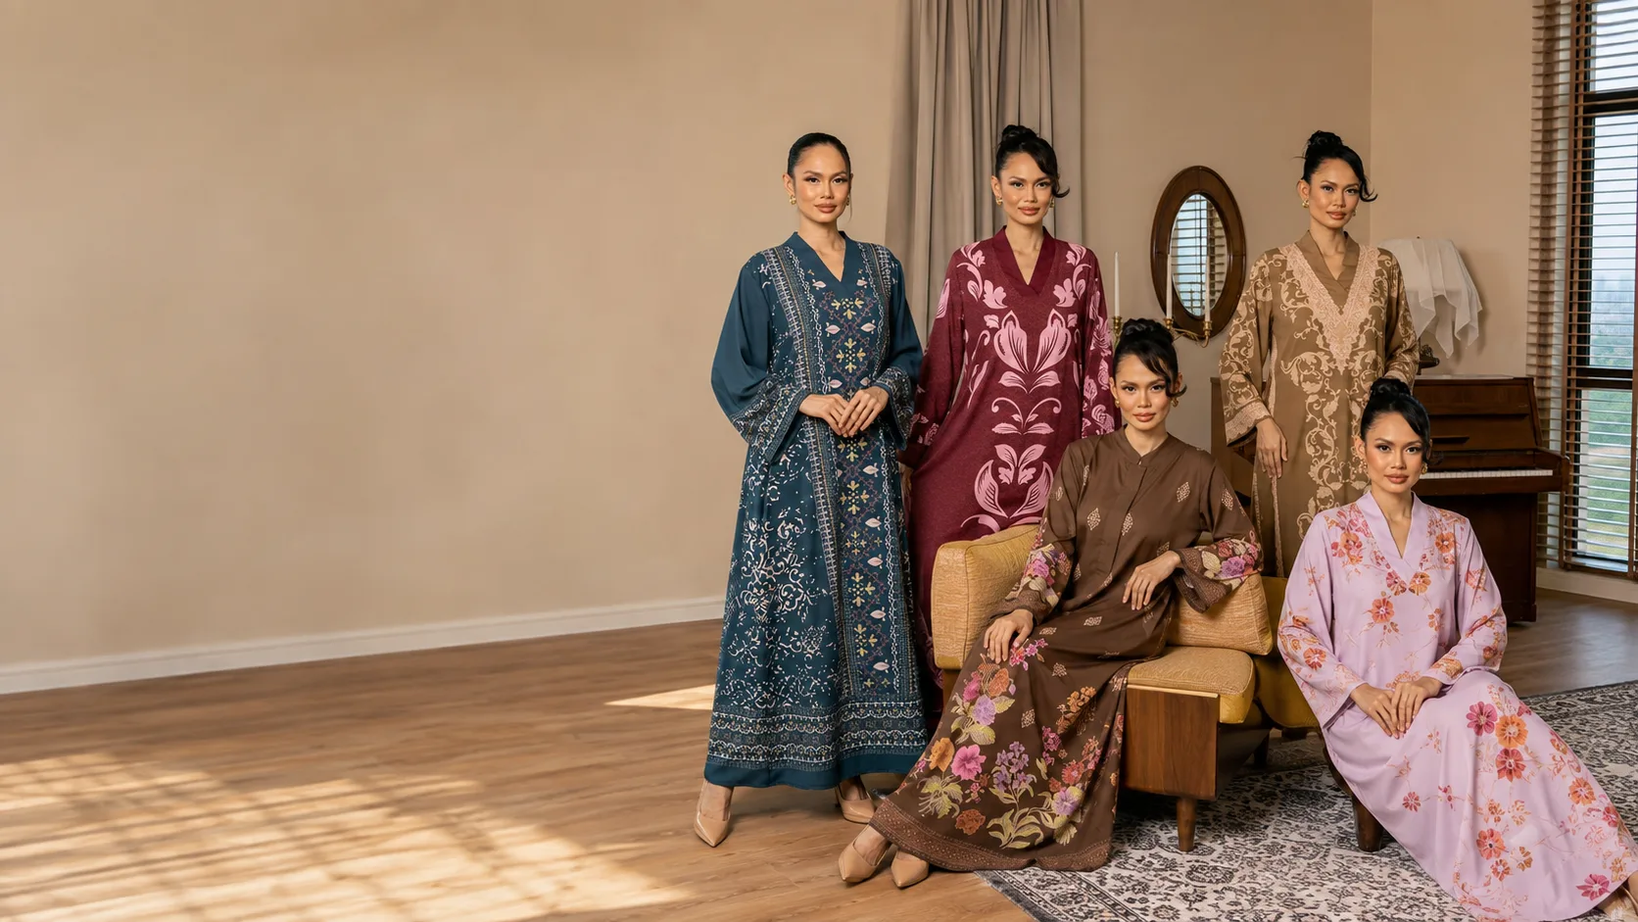
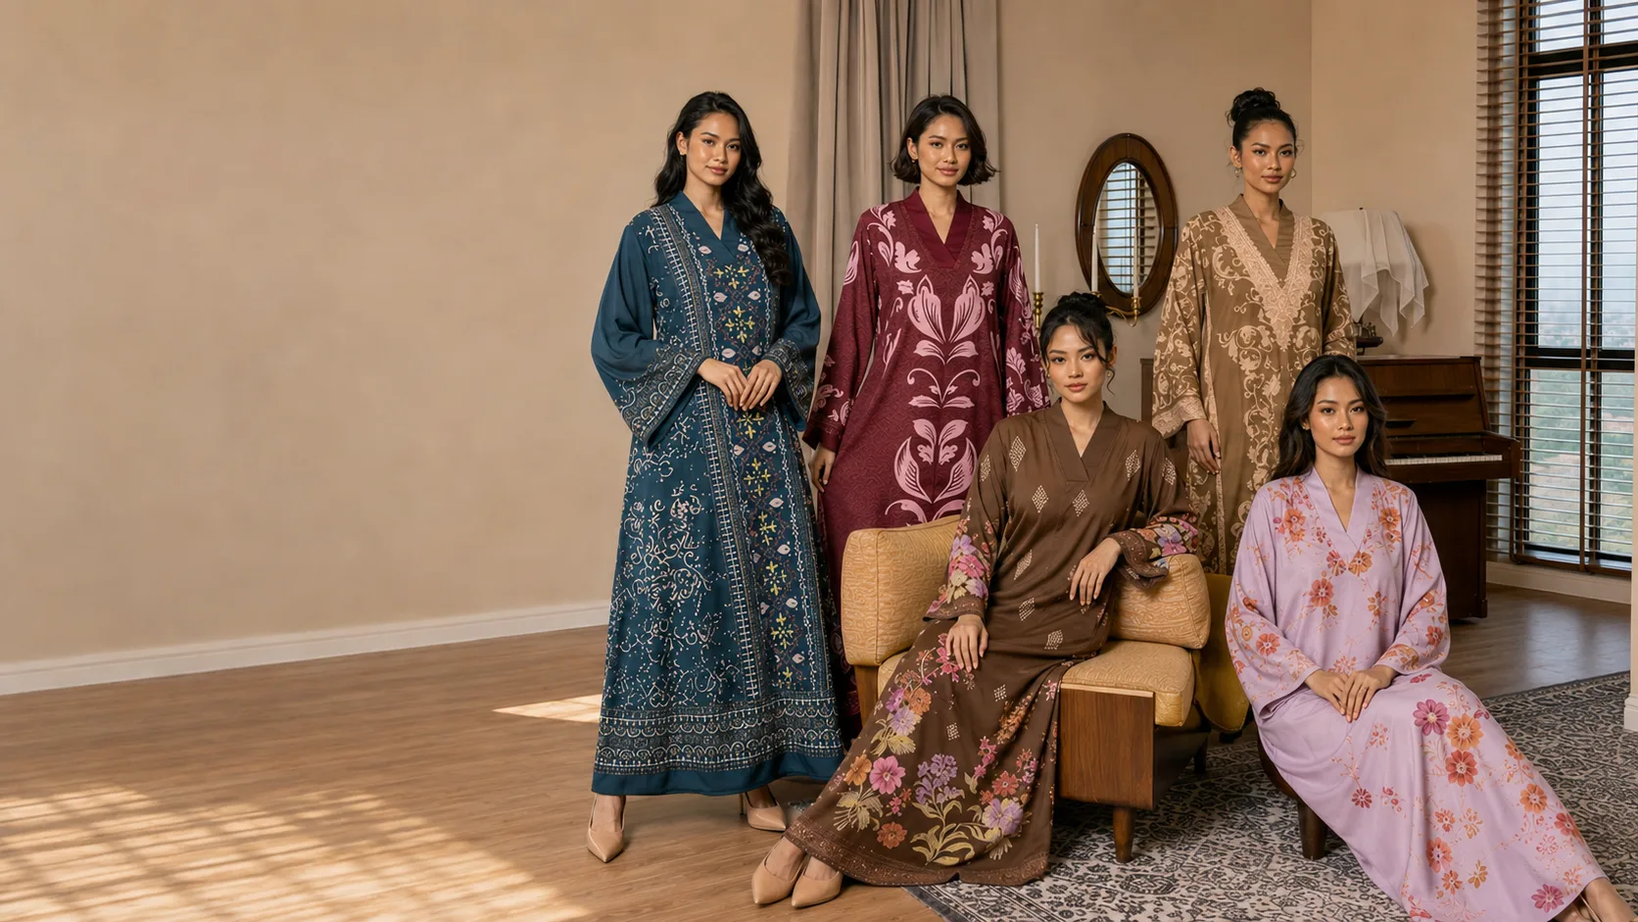
Cotton silk copy pass, new hero masters, store block
New v2 hero photography for desktop and mobile. Copy updated across the
page: premium cotton silk emphasised, A-line becomes A-Cut everywhere,
petite-to-plus messaging in hero and claims bar, pear-shape point in The
Cloth, fifteen-colour claim (seven verifiable in assets, flagged in
HANDOVER), Teal Green and Soft Peach renames, Umrah friendly occasion,
24-hour dispatch and 1-3 day delivery across FAQ, product sheet,
checkout and confirmation. New visit-the-store block with The Linc
address, 10am-9pm hours, phone, and a Google Maps link.

diff --git a/landing/index.html b/landing/index.html
@@ -4,13 +4,13 @@
 <meta charset="utf-8">
 <meta name="viewport" content="width=device-width, initial-scale=1, viewport-fit=cover">
 <title>Batik Dolu-Dolu — HOOR</title>
-<meta name="description" content="Batik Dolu-Dolu by HOOR. Six prints from the old days, cut A-line with pockets, in sizes S/M to 4XL. RM199, delivered across Malaysia.">
+<meta name="description" content="Batik Dolu-Dolu by HOOR. Heritage batik in premium cotton silk, A-Cut with pockets, for every woman from petite to plus size. RM199, at your doorstep in 1–3 days.">
 <meta name="theme-color" content="#FAF6F1">
 <link rel="icon" href="assets/brand/hoor-logo-sage.svg" type="image/svg+xml">
 
 <meta property="og:type" content="website">
 <meta property="og:title" content="Batik Dolu-Dolu — HOOR">
-<meta property="og:description" content="One dress, every occasion. Six prints, sizes S/M–4XL, pockets included. RM199.">
+<meta property="og:description" content="One dress, every occasion. Premium cotton silk, petite to plus size, pockets included. RM199.">
 <meta property="og:image" content="assets/img/hero_desktop-1400.webp">
 
 <!-- Fonts are self-hosted: no third-party DNS, TLS or blocking round-trip on
@@ -22,8 +22,8 @@
 <link rel="stylesheet" href="css/hoor.css">
 
 <link rel="preload" as="image" media="(max-width: 899px)" fetchpriority="high"
-      href="assets/img/hero_mobile-853.webp"
-      imagesrcset="assets/img/hero_mobile-480.webp 480w, assets/img/hero_mobile-853.webp 853w" imagesizes="100vw">
+      href="assets/img/hero_mobile-930.webp"
+      imagesrcset="assets/img/hero_mobile-480.webp 480w, assets/img/hero_mobile-930.webp 930w" imagesizes="100vw">
 <link rel="preload" as="image" media="(min-width: 900px)" fetchpriority="high"
       href="assets/img/hero_desktop-1400.webp"
       imagesrcset="assets/img/hero_desktop-900.webp 900w, assets/img/hero_desktop-1400.webp 1400w, assets/img/hero_desktop-1672.webp 1672w" imagesizes="100vw">
@@ -69,7 +69,7 @@
[1 lines of base64/hex data omitted]
         <picture>
           <source media="(max-width: 899px)" sizes="100vw"
-                  srcset="assets/img/hero_mobile-480.webp 480w, assets/img/hero_mobile-853.webp 853w">
+                  srcset="assets/img/hero_mobile-480.webp 480w, assets/img/hero_mobile-930.webp 930w">
           <img class="loaded" src="assets/img/hero_desktop-1400.webp" sizes="100vw"
                srcset="assets/img/hero_desktop-900.webp 900w, assets/img/hero_desktop-1400.webp 1400w, assets/img/hero_desktop-1672.webp 1672w"
                alt="The Batik Dolu-Dolu collection: five prints worn together in a Kuala Lumpur apartment"
@@ -89,8 +89,8 @@
 
       <div class="hero__deck">
         <p class="hero__lead">
-          The prints your mother kept for good. Cut A-line, given pockets,
-          in sizes that go to 4XL.
+          Made from premium cotton silk, in an A-Cut with pockets.
+          For every woman, from petite to plus size.
         </p>
         <div class="hero__cta">
           <a class="btn btn--light" href="#shop" data-track="hero_cta">Shop the collection</a>
@@ -114,10 +114,9 @@
           exactly, more like recognition.
         </p>
         <p>
-          These six prints come from that shelf: the tile medallions, the
-          scrolling lace borders, the painted blooms that turned up on every
-          good baju in the house. We had them redrawn rather than reprinted,
-          then placed them on a cut built for a working week.
+          These prints come from that shelf. The tiles, the lace, the flowers
+          you grew up seeing on every good baju, redrawn with care and put on
+          a dress you can wear any day of the week.
         </p>
         <p>
           Shot in a flat that still has the upright piano, the corduroy
@@ -139,7 +138,7 @@
   <section class="shop wrap" id="shop">
     <div class="sect-head rv">
       <span class="label">The collection</span>
-      <h2>Six prints. Seven ways to wear them.</h2>
+      <h2>Fifteen colours. One A-Cut.</h2>
       <p class="sub">
         Pick a colour on the card to see it change. Everything is
         <span data-price-plain></span>, in every size we make.
@@ -185,16 +184,16 @@
 
           <div class="fabric__points rv rv-d1">
             <div>
-              <h3>Lightweight &amp; flowy</h3>
-              <p>It hangs from the shoulder and moves away from the body. No cling, no static, no clammy afternoon.</p>
+              <h3>Cotton silk, all day</h3>
+              <p>Lightweight, breathable and soft on the skin. It keeps you cool and comfortable from morning to night.</p>
             </div>
             <div>
-              <h3>All-day comfy</h3>
-              <p>Nothing fastens, nothing digs. Sit through a long lunch and stand up without needing a mirror.</p>
+              <h3>Flatters every figure</h3>
+              <p>The A-Cut falls from the shoulder, beautiful on petite, plus-size and pear-shaped bodies alike.</p>
             </div>
             <div>
               <h3>Pockets, properly</h3>
-              <p>Side seam pockets set into the A-line, deep enough for a phone and invisible when empty.</p>
+              <p>Side seam pockets set into the A-Cut, deep enough for a phone and invisible when empty.</p>
             </div>
           </div>
         </div>
@@ -210,8 +209,8 @@
       <span class="label">Size &amp; fit</span>
       <h2>Find your size in ten seconds.</h2>
       <p class="sub">
-        One measurement is enough. The cut is loose and A-line, so it hangs
-        from the shoulder. Your waist and hip do not decide the size.
+        One measurement is enough. The A-Cut is loose and hangs from the
+        shoulder. Your waist and hip do not decide the size.
       </p>
     </div>
 
@@ -257,6 +256,23 @@
         <h2>The things people ask us.</h2>
       </div>
       <div class="faq__list rv rv-d1" data-faq></div>
+
+      <div class="visit rv">
+        <div class="visit__info">
+          <span class="label">Visit the store</span>
+          <h3 class="serif">The Linc, Kuala Lumpur</h3>
+          <p>Lot 2-5, Second Floor, The Linc<br>360, Jalan Tun Razak, 50400 Kuala Lumpur</p>
+          <p class="visit__meta">Every day, 10am – 9pm<br><a href="tel:+60172500323">+60 17-250 0323</a></p>
+          <a class="btn" target="_blank" rel="noopener"
+             href="https://maps.google.com/?q=The+Linc+KL,+360+Jalan+Tun+Razak,+50400+Kuala+Lumpur">Open in Google Maps</a>
+        </div>
+        <div class="visit__card" aria-hidden="true">
+          <svg viewBox="0 0 16 22"><path fill="currentColor" d="M8 0C3.6 0 0 3.6 0 8c0 5.4 8 14 8 14s8-8.6 8-14c0-4.4-3.6-8-8-8zm0 11a3 3 0 1 1 0-6 3 3 0 0 1 0 6z"/></svg>
+          <span class="visit__floor">Second Floor</span>
+          <span class="visit__lot">Lot 2-5</span>
+          <span class="visit__mall">The Linc &middot; Jalan Tun Razak</span>
+        </div>
+      </div>
     </div>
   </section>
 
@@ -277,7 +293,7 @@
       <div class="rv">
         <span class="label">Still deciding?</span>
         <h2 class="serif">Take the one you keep scrolling back to.</h2>
-        <p>Six prints, sizes S/M to 4XL, <span data-price-plain-2></span> each. Free delivery over <span data-free-over></span>.</p>
+        <p>Fifteen colours, sizes S/M to 4XL, <span data-price-plain-2></span> each. Free delivery over <span data-free-over></span>.</p>
       </div>
       <div class="closer__cta rv rv-d1">
         <a class="btn btn--solid" href="#shop" data-track="closer_cta">Back to the collection</a>
@@ -318,7 +334,9 @@
         <h3 class="foot-h">Customer care</h3>
         <ul>
           <li><a data-support-email></a></li>
+          <li><a href="tel:+60172500323">+60 17-250 0323</a></li>
           <li data-support-hours></li>
+          <li>The Linc KL, Jalan Tun Razak</li>
           <li><a href="https://instagram.com/we.are.hoor" target="_blank" rel="noopener" data-support-ig></a></li>
         </ul>
         <h3 class="foot-h" style="margin-top:1.5rem">We accept</h3>

diff --git a/landing/js/data.js b/landing/js/data.js
@@ -34,7 +34,8 @@ export const CONFIG = {
 
   support: {
     email: 'hooriemodestwear@gmail.com',     // from hoor.my return policy
-    hours: 'Every day, 10am – 8pm',          // from hoor.my return policy
+    hours: 'Every day, 10am – 9pm',
+    phone: '+60 17-250 0323',                // hoor.my storefront config
     instagram: '@we.are.hoor',
     // HOOR's WhatsApp business number, taken from hoor.my's own storefront
     // configuration (whatsapp_phone). Digits only; empty hides the button.
@@ -43,8 +44,8 @@ export const CONFIG = {
 
   policy: {
     returnDays: 7,                           // hoor.my: within 7 days of receiving
-    refundDays: 14,                          // hoor.my: max 14 working days
-    dispatchDays: 10                         // hoor.my: max 10 working days
+    refundDays: 14                           // hoor.my: max 14 working days
+    // Dispatch/delivery promise per client: out in 24 hours, arrives 1–3 days.
   },
 
   // Turn on ONLY when the numbers below are real live stock.
@@ -102,13 +103,13 @@ export const LENGTH_GUIDE = [
    --------------------------------------------------------------------------- */
 
 const FABRIC =
-  'Premium crepe: matte, opaque and fluid. It falls straight from the shoulder ' +
-  'instead of clinging, and it does not crease across a long day.';   // ⚑ confirm exact fabric
+  'Premium cotton silk: soft, breathable and fluid. It falls straight from the shoulder ' +
+  'instead of clinging, and stays cool across a long Malaysian day.';
 
 const CARE = 'Hand wash cold or machine wash gentle, inside out. Hang dry in shade. Warm iron on reverse.'; // ⚑ confirm
 
 const SHARED_DETAILS = [
-  'A-cut silhouette that skims, never clings',
+  'A-Cut silhouette that skims, never clings',
   'Notched V-neckline with a soft stand collar',
   'Wide turned-back cuffs',
   'Side seam pockets, deep enough for a phone',
@@ -124,7 +125,7 @@ export const PRODUCTS = [
     colourways: [
       {
         id: 'deep-teal',
-        name: 'Deep Teal',
+        name: 'Teal Green',
         swatch: '#2A4A58',
         images: ['pusaka_deep-teal_full_01', 'pusaka_deep-teal_detail_01', 'pusaka_deep-teal_detail_02'],
         video: 'pusaka_deep-teal',
@@ -215,7 +216,7 @@ export const PRODUCTS = [
     colourways: [
       {
         id: 'lilac',
-        name: 'Lilac',
+        name: 'Soft Peach',
         swatch: '#D3BDCA',
         images: ['anggerik_lilac_full_01', 'anggerik_lilac_full_02', 'anggerik_lilac_detail_01'],
         video: null,
@@ -239,11 +240,8 @@ PRODUCTS.forEach(p => {
    three campaign videos they supplied. Nothing here is invented.
    --------------------------------------------------------------------------- */
 export const CLAIMS = [
-  'Pocket included',
-  'Lightweight & flowy',
-  'All-day comfy',
-  'Petite friendly',
-  'Sizes S/M – 4XL'
+  'Premium Cotton Silk',
+  'Petite to Plus Size'
 ];
 
 export const OCCASIONS = [
@@ -251,30 +249,35 @@ export const OCCASIONS = [
   { label: 'Dinner dates',       note: 'The print does the dressing up. Add earrings, leave.' },
   { label: 'Special occasions',  note: 'Reads formal without a fitting or a fuss.' },
   { label: 'Celebration moments', note: 'Raya, kenduri, birthdays. It survives a long day of them.' },
-  { label: 'Holiday getaway',    note: 'Packs flat, shakes out, needs no iron.' }
+  { label: 'Holiday getaway',    note: 'Packs flat, shakes out, needs no iron.' },
+  { label: 'Umrah friendly',     note: 'Modest, full coverage, and comfortable through long days of ibadah and travel.' }
 ];
 
 export const FAQ = [
   {
     q: 'How do I know which size to take?',
-    a: 'Measure around the fullest part of your bust and use the finder above; it reads straight off HOOR\'s A-Cut chart. The cut is loose and A-line, so it hangs from the shoulder rather than fitting the waist. If you fall between two sizes, take the smaller one unless you want extra length.',
+    a: 'Measure around the fullest part of your bust and use the finder above; it reads straight off HOOR\'s A-Cut chart. The A-Cut is loose, hanging from the shoulder rather than fitting the waist. If you fall between two sizes, take the smaller one unless you want extra length.',
     cta: 'size'
   },
   {
     q: 'Is it see-through? Is it hot?',
-    a: 'The crepe is opaque and unlined, and it sits away from the body instead of against it, which is why the campaign calls it lightweight and flowy. It is made for Malaysian weather, not for a European autumn.'
+    a: 'The cotton silk is opaque and unlined, and it sits away from the body instead of against it. Light, breathable and made for Malaysian weather.'
   },
   {
     q: 'Does it really have pockets?',
-    a: 'Yes. Side seam pockets on every piece, set into the A-line so they disappear when you are not using them. Deep enough for a phone.'
+    a: 'Yes. Side seam pockets on every piece, set into the A-Cut so they disappear when you are not using them. Deep enough for a phone.'
   },
   {
     q: 'When will it arrive?',
-    a: `Orders are dispatched within ${CONFIG.policy.dispatchDays} working days, then it is 1–3 days to Semenanjung and 3–7 days to Sabah, Sarawak and Labuan. You get a tracking number the moment it ships.`
+    a: 'Your order is dispatched within 24 hours and arrives at your doorstep within 1–3 days. You get a tracking number the moment it ships.'
   },
   {
     q: 'What if it does not fit?',
     a: `You have ${CONFIG.policy.returnDays} days from delivery to post it back for an exchange or refund, unworn and with tags on. Return postage is on you; refunds are processed within ${CONFIG.policy.refundDays} working days. Email ${CONFIG.support.email} with your order number to start.`
+  },
+  {
+    q: 'Can I see the dresses in person?',
+    a: `Yes. Visit us at Lot 2-5, Second Floor, The Linc, 360 Jalan Tun Razak, 50400 Kuala Lumpur, every day from 10am to 9pm. Call or WhatsApp ${CONFIG.support.phone}.`
   },
   {
     q: 'Is my payment secure?',

diff --git a/landing/js/app.js b/landing/js/app.js
@@ -261,7 +261,7 @@ function renderChrome() {
   const freeOver = $('[data-free-over]');
   if (CONFIG.freeShippingOver) freeOver.textContent = money(CONFIG.freeShippingOver);
   else freeOver.closest('p').textContent =
-    `Six prints, sizes S/M to 4XL, ${money(CONFIG.basePrice)} each.`;
+    `Fifteen colours, sizes S/M to 4XL, ${money(CONFIG.basePrice)} each.`;
   $('[data-sticky-sub]').textContent = `${money(CONFIG.basePrice)} · S/M – 4XL`;
   $('[data-tagline]').textContent = CONFIG.tagline;
   $('[data-year]').textContent = new Date().getFullYear();
@@ -562,14 +562,14 @@ function renderProduct() {
           <details>
             <summary>Size &amp; fit<span class="pm" aria-hidden="true"></span></summary>
             <div class="acc__body">
-              <p>A-cut, full length, hangs from the shoulder. Measurements are of the garment, in inches.</p>
+              <p>A-Cut, full length, hangs from the shoulder. Measurements are of the garment, in inches.</p>
               <p style="margin-top:.6rem"><button class="btn" data-open="size">Open the full chart</button></p>
             </div>
           </details>
           <details>
             <summary>Delivery &amp; returns<span class="pm" aria-hidden="true"></span></summary>
             <div class="acc__body">
-              <p>Dispatched within ${CONFIG.policy.dispatchDays} working days. ${money(CONFIG.shipping.west.rate)} to Semenanjung, ${money(CONFIG.shipping.east.rate)} to Sabah, Sarawak &amp; Labuan${
+              <p>Dispatched within 24 hours, at your doorstep in 1–3 days. ${money(CONFIG.shipping.west.rate)} to Semenanjung, ${money(CONFIG.shipping.east.rate)} to Sabah, Sarawak &amp; Labuan${
                 CONFIG.freeShippingOver ? `, free over ${money(CONFIG.freeShippingOver)}` : ''}.</p>
               <p style="margin-top:.6rem">${CONFIG.policy.returnDays} days to exchange or return, unworn with tags. Return postage is not covered.</p>
             </div>
@@ -787,7 +787,7 @@ function renderCart() {
     body.innerHTML = `
       <div class="cart__empty">
         <span class="serif">Your bag is empty.</span>
-        <p>Six prints are waiting. Everything is ${money(CONFIG.basePrice)}.</p>
+        <p>Fifteen colours are waiting. Everything is ${money(CONFIG.basePrice)}.</p>
         <p style="margin-top:1.5rem"><button class="btn" data-close-to-shop>See the collection</button></p>
       </div>`;
     body.querySelector('[data-close-to-shop]').addEventListener('click', () => {
@@ -911,7 +911,7 @@ function renderSizeDrawer() {
   body.innerHTML = `
     <div style="padding:1.5rem var(--gut) 2rem">
       <p style="color:var(--ink-80);max-width:44ch">
-        Every piece is the same A-cut. It hangs from the shoulder, so the bust
+        Every piece is the same A-Cut. It hangs from the shoulder, so the bust
         measurement is the one that decides your size.
       </p>
       <div class="chart-scroll" style="margin-top:1.5rem">
@@ -1074,7 +1074,7 @@ function renderCheckout() {
         <div class="summary__items" data-summary-items></div>
         <div class="summary__totals" data-summary-totals></div>
         <ul class="summary__trust">
-          <li><svg aria-hidden="true"><use href="#i-tick-s"></use></svg>Dispatched in ${CONFIG.policy.dispatchDays} working days, with tracking</li>
+          <li><svg aria-hidden="true"><use href="#i-tick-s"></use></svg>Dispatched within 24 hours, with tracking</li>
           <li><svg aria-hidden="true"><use href="#i-tick-s"></use></svg>${CONFIG.policy.returnDays}-day exchange or return, unworn with tags</li>
           <li><svg aria-hidden="true"><use href="#i-tick-s"></use></svg>Payment handled by HOOR's provider, never stored here</li>
         </ul>
@@ -1425,11 +1425,11 @@ function renderConfirmation() {
       <ol class="done__next">
         <li><span class="n">01</span><div>
           <h3>We pack it</h3>
-          <p>Within ${CONFIG.policy.dispatchDays} working days. You get an email with a tracking number the moment it leaves us.</p>
+          <p>Within 24 hours. You get an email with a tracking number the moment it leaves us.</p>
         </div></li>
         <li><span class="n">02</span><div>
           <h3>It arrives</h3>
-          <p>1–3 days across Semenanjung, 3–7 days to Sabah, Sarawak and Labuan.</p>
+          <p>At your doorstep within 1–3 days of dispatch.</p>
         </div></li>
         <li><span class="n">03</span><div>
           <h3>Try it on the same day</h3>

diff --git a/landing/css/hoor.css b/landing/css/hoor.css
@@ -1238,3 +1238,40 @@ ul, ol { margin: 0; padding: 0; list-style: none; }
 @media (prefers-reduced-motion: reduce) {
   .wa-fab { transition: opacity .2s; transform: none; }
 }
+
+/* ---------- 30. VISIT THE STORE ----------------------------------------- */
+.visit {
+  display: grid;
+  gap: clamp(1.5rem, 4vw, 3rem);
+  max-width: 62rem;
+  margin-top: clamp(2.5rem, 6vw, 4rem);
+  padding: clamp(1.5rem, 4vw, 2.5rem);
+  background: var(--white);
+  border: 1px solid var(--line);
+}
+.visit .label { color: var(--sage-deep); display: block; margin-bottom: .9rem; }
+.visit h3 { font-size: var(--t-title); line-height: 1.1; margin-bottom: .9rem; }
+.visit__info p { color: var(--ink-80); }
+.visit__meta { margin-top: .9rem; }
+.visit__meta a { text-decoration: underline; text-underline-offset: 3px; }
+.visit__info .btn { margin-top: 1.4rem; }
+.visit__card {
+  display: grid;
+  place-content: center;
+  justify-items: center;
+  gap: .4rem;
+  padding: clamp(1.5rem, 4vw, 2rem);
+  background: var(--sage-wash);
+  border: 1px solid var(--line-soft);
+  text-align: center;
+}
+.visit__card svg { width: 2rem; height: 2.75rem; color: var(--sage-deep); margin-bottom: .5rem; }
+.visit__floor {
+  font-size: var(--t-label); letter-spacing: .16em; text-transform: uppercase;
+  font-weight: 700; color: var(--ink-55);
+}
+.visit__lot { font-family: var(--serif); font-size: clamp(1.8rem, 4vw, 2.4rem); line-height: 1; }
+.visit__mall { font-size: var(--t-small); color: var(--ink-55); margin-top: .35rem; }
+@media (min-width: 780px) {
+  .visit { grid-template-columns: 1.3fr 1fr; align-items: center; }
+}

diff --git a/HANDOVER.md b/HANDOVER.md
@@ -24,12 +24,15 @@ HOOR to confirm before money goes into ads.
 | 1 | **Product names** — PUSAKA, SEMARAK, RIMBUN, RENDA, SENJA, ANGGERIK | `data.js` → `PRODUCTS` | Proposed, not given. They follow HOOR's live convention and each Malay word describes its own print. Swap freely. |
 | 2 | **RM199 per piece** | `data.js` → `CONFIG.basePrice` | Matches HOOR's live abaya/kaftan price on hoor.my. Confirm campaign pricing and any launch offer. |
 | 3 | **Stock numbers** | `data.js` → each colourway's `stock` | Placeholders. Wire to real inventory. Until you do, leave `showStockPressure: false` — see §5. |
-| 4 | **Fabric: "premium crepe"** | `data.js` → `FABRIC` | Inferred from drape and HOOR's own category names. One video caption may read *Premium Cotton*. **Confirm before launch** — a wrong fibre claim is a real customer-harm risk. |
+| 4 | ~~Fabric~~ **Confirmed: premium cotton silk** (client instruction, Sep 2026) | `data.js` → `FABRIC` | Copy updated across hero, claims bar, The Cloth, FAQ. |
 | 5 | **Care instructions** | `data.js` → `CARE` | Sensible default, not supplied. Confirm. |
 | 6 | **Delivery RM8 / RM15, free over RM250** | `data.js` → `CONFIG.shipping`, `freeShippingOver` | Not supplied. Set `freeShippingOver: null` to remove the free-delivery nudge entirely. |
 | 7 | **Colour swatches** | `data.js` → each `swatch` | Sampled from the photography. Check against physical fabric. |
 | 8 | **The RIMBUN shawl** | `data.js` → `rimbun.note` | The page says only "Shown styled with a shawl" and claims nothing. If it is included, say so — it is a selling point. |
 | 9 | **Payment gateway** | `app.js` → `createOrder()` | Simulated. One function to replace — see §4. |
+| 10a | **Fifteen colours** | shop heading, closer, cart copy | The page now states fifteen colours per client instruction, but only **seven are verifiable in the supplied assets** (six products, RENDA in two colourways) and only those seven are purchasable on the page. The remaining eight need photography + a `colourways` entry each in `data.js`. |
+| 10b | **Shipping promise** | FAQ, product sheet, checkout, confirmation | Client instruction: dispatched within 24 hours, doorstep in 1–3 days — this **overrides hoor.my's published max-10-working-days policy** and is stated as a blanket promise including East Malaysia. Make sure operations can honour it before ads run. |
+| 10c | **Premise photo** | FAQ visit block | The store block shows a designed locator card (The Linc · Second Floor · Lot 2-5) plus a Google Maps link. Swap the card for a real premise photo when one exists. Address and phone came from hoor.my's own storefront config. |
 | 10 | **WhatsApp number** | `data.js` → `CONFIG.support.whatsapp` | Set to `60172500323`, taken from hoor.my's own storefront configuration (`whatsapp_phone`). ⚑ Confirm this is the channel HOOR wants campaign enquiries on; emptying the field hides the button. |
 
 Confirmed facts, taken from HOOR's own material and **not** invented: the

diff --git a/ASSETS.md b/ASSETS.md
@@ -195,9 +195,12 @@ would not hold up as a hero — they are in shoot B and unused regardless.
 | `HOOR Hero Section.png` | 1672×941 (16:9) | Desktop hero, rendered at 900/1400/1672 |
 | `HOOR Mobile Hero Section.png` | 853×1844 (≈9:19.5) | Mobile hero, rendered at 480/853 |
 
-Both are the five-look group shot in the campaign apartment. The mobile master
-is the maximum sharpness available at 853px source width; a ~1200px-wide
-re-export would improve DPR-3 phones if one exists.
+Superseded Sep 2026 by v2 masters (`HOOR Hero Desktop v2.png` 1672×941,
+`HOOR Hero Mobile v2.png` 930×1691) — a five-look group shot in a warmer room.
+Same art direction: wall-left desktop, cover-format mobile.
+
+Colourway names were renamed on client instruction: Deep Teal → **Teal Green**,
+Lilac → **Soft Peach** (internal ids and filenames unchanged).
 
 ## 6. What was produced from these files
 
